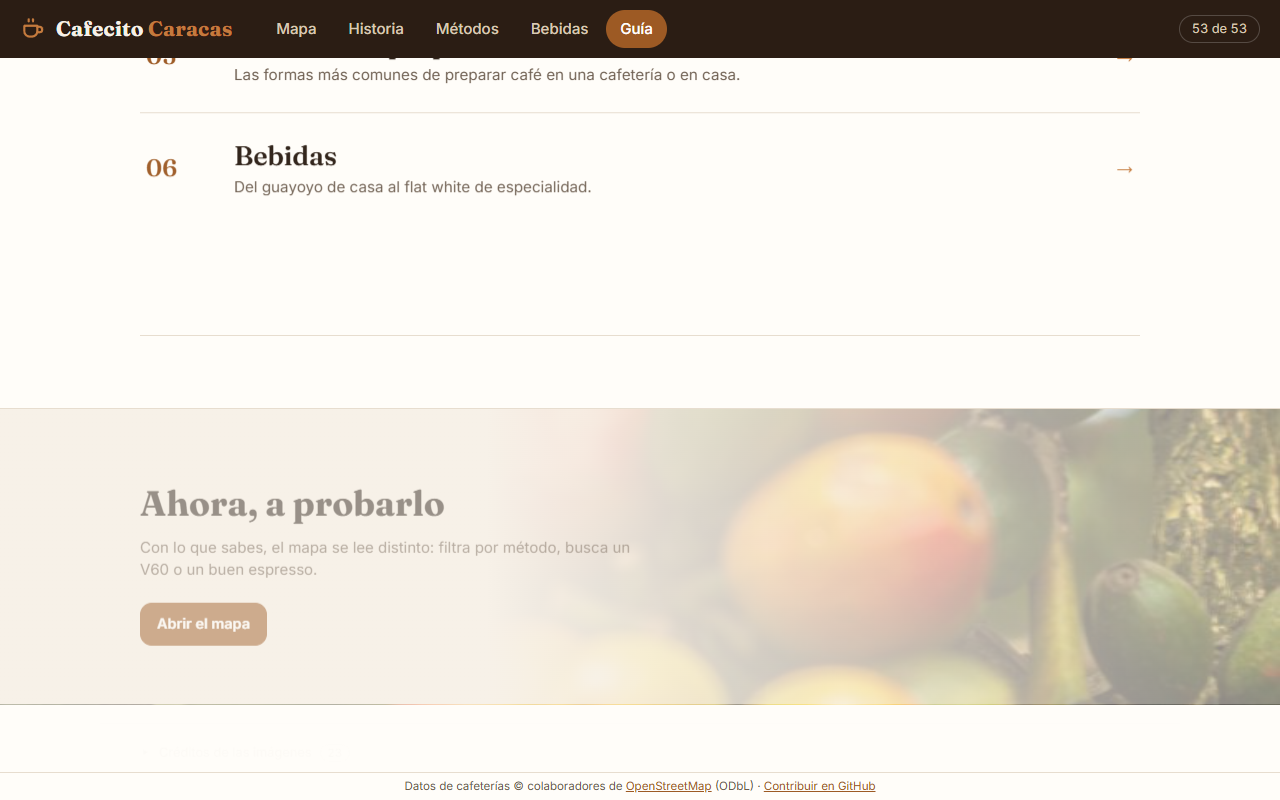
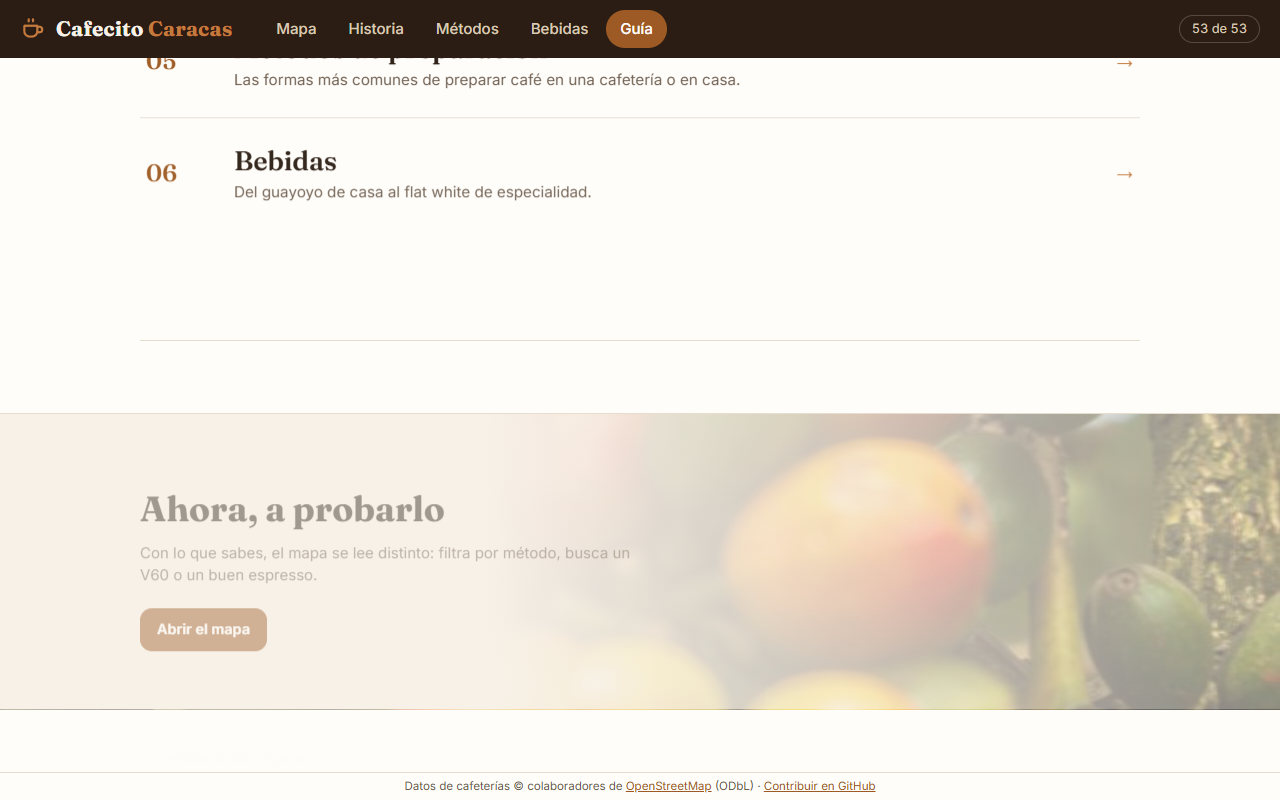
Búsqueda en vivo: servidores en carrera escalonada y arranque también en móvil
- Los servidores de Overpass se prueban de forma escalonada (2,5 s) y gana el primero que responde, en vez de esperar el tiempo máximo de cada uno que falla
- En pantallas altas (móvil) la vista inicial superaba el límite y no se buscaba nunca: ahora se pide una zona recortada alrededor del centro
- Prueba nueva que simula Overpass (sin depender del servicio público): sin duplicados, carrera entre servidores y móvil
- sin-red.js limpia su bloqueo de red al terminar (afectaba a pruebas posteriores)

diff --git a/app.js b/app.js
@@ -151,38 +151,55 @@ const OVERPASS_URLS = [
   'https://overpass.private.coffee/api/interpreter',
   'https://overpass.kumi.systems/api/interpreter',
 ];
-const OVERPASS_ATTEMPT_MS = 15000;   // por servidor; si no responde, se prueba el siguiente
+const OVERPASS_ATTEMPT_MS = 20000;   // tiempo máximo por servidor
+const OVERPASS_STAGGER_MS = 2500;    // cada servidor de respaldo arranca si el anterior aún no ha respondido; gana el primero
 const LIVE_CACHE_KEY = 'cafecito-live-v1';
 const LIVE_CACHE_MAX_AGE = 7 * 24 * 3600 * 1000;
-const LIVE_MAX_SPAN = 0.4;   // grados; evita pedir áreas enormes a Overpass
+const LIVE_MAX_SPAN = 0.4;   // grados; si la vista es más grande se pide solo esta zona alrededor del centro
+const LIVE_SKIP_SPAN = 0.9;  // por encima de esto el mapa está demasiado alejado y no se busca
 const LIVE_TIMEOUT_MS = 30000;
 const CURATED_OSM = new Set(CAFES_DATA.map(c => c.osm).filter(Boolean));
 
 async function fetchOverpassCafes(bounds, signal) {
   const bb = `${bounds.getSouth()},${bounds.getWest()},${bounds.getNorth()},${bounds.getEast()}`;
   const data = `[out:json][timeout:25];(node["amenity"="cafe"](${bb});way["amenity"="cafe"](${bb}););out center tags;`;
-  let lastErr;
-  for (const url of OVERPASS_URLS) {
-    const attempt = new AbortController();
-    const onAbort = () => attempt.abort();
-    signal.addEventListener('abort', onAbort);
+  const attempts = [];   // controladores de los intentos en curso (se cancelan al ganar uno)
+  const abortError = () => Object.assign(new Error('Búsqueda cancelada'), { name: 'AbortError' });
+
+  const tryServer = async (url, delay) => {
+    if (delay) {
+      await new Promise((resolve, reject) => {
+        const t = setTimeout(resolve, delay);
+        signal.addEventListener('abort', () => { clearTimeout(t); reject(abortError()); }, { once: true });
+      });
+    }
+    if (signal.aborted) throw abortError();
+    const ctrl = new AbortController();
+    attempts.push(ctrl);
+    const onAbort = () => ctrl.abort();
+    signal.addEventListener('abort', onAbort, { once: true });
     const timer = setTimeout(onAbort, OVERPASS_ATTEMPT_MS);
     try {
-      const res = await fetch(url, { method: 'POST', body: new URLSearchParams({ data }), signal: attempt.signal });
+      const res = await fetch(url, { method: 'POST', body: new URLSearchParams({ data }), signal: ctrl.signal });
       if (!res.ok) throw new Error('HTTP ' + res.status);
       const json = await res.json();
       // Overpass responde 200 con "remark" y sin elementos cuando se queda sin tiempo o memoria
       if (json.remark && !(json.elements && json.elements.length)) throw new Error(json.remark);
       return json.elements || [];
-    } catch (err) {
-      if (signal.aborted) throw err;
-      lastErr = err;
     } finally {
       clearTimeout(timer);
       signal.removeEventListener('abort', onAbort);
     }
+  };
+
+  try {
+    return await Promise.any(OVERPASS_URLS.map((url, i) => tryServer(url, i * OVERPASS_STAGGER_MS)));
+  } catch (err) {
+    if (signal.aborted) throw abortError();
+    throw (err.errors && err.errors[0]) || err;
+  } finally {
+    attempts.forEach(c => c.abort());
   }
-  throw lastErr;
 }
 
 function liveToCafe(el) {
@@ -713,11 +730,16 @@ const App = {
     async function loadLive({ force = false } = {}) {
       const m = map.value;
       if (!m) return;
-      const view = m.getBounds();
-      if (view.getNorth() - view.getSouth() > LIVE_MAX_SPAN || view.getEast() - view.getWest() > LIVE_MAX_SPAN) {
+      const bounds = m.getBounds();
+      const spanLat = bounds.getNorth() - bounds.getSouth(), spanLng = bounds.getEast() - bounds.getWest();
+      if (spanLat > LIVE_SKIP_SPAN || spanLng > LIVE_SKIP_SPAN) {
         liveState.value = liveUpdated.value ? 'ok' : 'zoom';
         return;
       }
+      // Pantallas altas (móvil) abarcan más de lo que conviene pedir de una vez: se limita a una zona centrada en el mapa
+      const view = (spanLat > LIVE_MAX_SPAN || spanLng > LIVE_MAX_SPAN)
+        ? L.latLng(m.getCenter()).toBounds(LIVE_MAX_SPAN * 111000)
+        : bounds;
       if (!force && fetchedAreas.some(a => a.contains(view))) { liveState.value = 'ok'; return; }
 
       if (liveAbort) liveAbort.abort();

diff --git a/tests/e2e/busqueda-en-vivo.js b/tests/e2e/busqueda-en-vivo.js
@@ -1,0 +1,34 @@
+// Simula Overpass (sin depender de que el servicio público esté arriba) y comprueba la búsqueda en vivo:
+// - llegan locales nuevos y se mezclan con los curados, sin duplicar los que ya existen (por id de OSM)
+// - el primer servidor que responde gana aunque otros fallen o tarden
+// - en móvil (vista alta) la búsqueda también arranca sola, con una zona recortada alrededor del centro
+// Se ejecuta en escritorio y móvil. Esperado: ok:true.
+async page => {
+  const hits = { n: 0, bodies: [] };
+  const els = [
+    { type: 'node', id: 900001, lat: 10.4806, lon: -66.9036, tags: { amenity: 'cafe', name: 'Café Simulado Uno', opening_hours: 'Mo-Su 08:00-18:00' } },
+    { type: 'node', id: 900002, lat: 10.4900, lon: -66.8800, tags: { amenity: 'cafe', name: 'Café Simulado Dos' } },
+    { type: 'node', id: 8362532414, lat: 10.499032, lon: -66.843504, tags: { amenity: 'cafe', name: 'Quiero 1 Café' } },   // ya existe en los curados: no debe duplicarse
+  ];
+  let rutas = 0;
+  const handler = async (route) => {
+    const url = route.request().url(); rutas++; hits.n++; hits.bodies.push(decodeURIComponent(route.request().postData() || '').slice(0, 160));
+    if (url.includes('overpass-api.de')) return route.fulfill({ status: 502, body: 'at capacity' });                         // falla rápido
+    if (url.includes('private.coffee')) { await new Promise(r => setTimeout(r, 1500)); return route.fulfill({ json: { elements: els } }); }   // responde tarde
+    return route.fulfill({ json: { elements: els } });
+  };
+  await page.route(/overpass/, handler);
+  await page.goto('http://localhost:8765/?b=' + Date.now()); await page.evaluate(() => localStorage.clear());
+  await page.goto('http://localhost:8765/?b=' + Date.now());
+  await page.waitForFunction(() => /En vivo/.test((document.querySelector('.live-status') || {}).innerText || ''), null, { timeout: 30000 }).catch(() => {});
+  const estado = (await page.locator('.live-status').first().innerText()).replace(/\n/g, ' ');
+  const total = await page.evaluate(() => document.querySelectorAll('.cafe-card').length);
+  const curados = await page.evaluate(() => CAFES_DATA.length);
+  await page.locator('.search-input').fill('Simulado'); await page.waitForTimeout(300);
+  const simulados = await page.locator('.cafe-card').count();
+  await page.locator('.search-input').fill('Quiero 1'); await page.waitForTimeout(300);
+  const duplicado = await page.locator('.cafe-card').count();
+  await page.unroute(/overpass/, handler);   // la regla persiste en la sesión: se quita para no afectar a otras pruebas
+  const ok = /En vivo/.test(estado) && total === curados + 2 && simulados === 2 && duplicado === 1;
+  return { ok, w: page.viewportSize().width, estado, totalTarjetas: total, curados, simulados, quiero1: duplicado, peticiones: hits.n, primeraConsulta: hits.bodies[0] };
+}

diff --git a/tests/e2e/sin-red.js b/tests/e2e/sin-red.js
@@ -8,5 +8,6 @@ async page => {
   out.notes.push('mapa base de respaldo (raster) o GL: gl=' + await page.locator('.maplibregl-canvas').count() + ' raster=' + await page.locator('#map .leaflet-tile').count());
   await page.locator('.cafe-card').first().click(); await page.waitForTimeout(800);
   out.notes.push('ficha abre: ' + await page.locator('.detail-name').innerText());
+  await page.unroute(/overpass|tiles\.openfreemap|openstreetmap\.org\/.*png/i);   // la regla de bloqueo persiste en la sesión: se quita para no afectar a otras pruebas
   return out;
 }

diff --git a/tests/e2e/README.md b/tests/e2e/README.md
@@ -12,6 +12,7 @@ Scripts para `playwright-cli run-code`. Cada uno devuelve un JSON con `errors`, 
 | `sin-red.js` | Overpass y mapa base bloqueados: la app debe seguir usable con los datos guardados |
 | `enlaces-maps.js` | Para los 53 locales: enlaces a Google Maps con SUS coordenadas y todas dentro de Caracas |
 | `google-maps-real.js` | MANUAL: abre Google Maps real y comprueba que el mapa queda a pocos metros del local |
+| `busqueda-en-vivo.js` | Simula Overpass: locales nuevos sin duplicar, gana el primer servidor que responde, arranca sola en móvil |
 | `xss-nombres.js` | Un nombre malicioso de OSM NO debe ejecutar código (`pwned` debe ser `false`) |
 
 ## Cómo correrlos
@@ -29,3 +30,5 @@ Otros navegadores: `playwright-cli -s=<nombre> open <url> --browser=msedge|webki
 Visual: `tests/visual/`. Rendimiento: `tests/perf/`.
 
 Nota: axe puede dar una falsa alarma de contraste en `.cluster` si el grupo de pines está a mitad de animación; repite la prueba.
+
+Importante: `sin-red.js` y `busqueda-en-vivo.js` registran reglas de red que persisten en la sesión de Playwright; ambos las quitan al terminar. Si una prueba se corta a medias, cierra la sesión (`playwright-cli -s=<nombre> close`).
